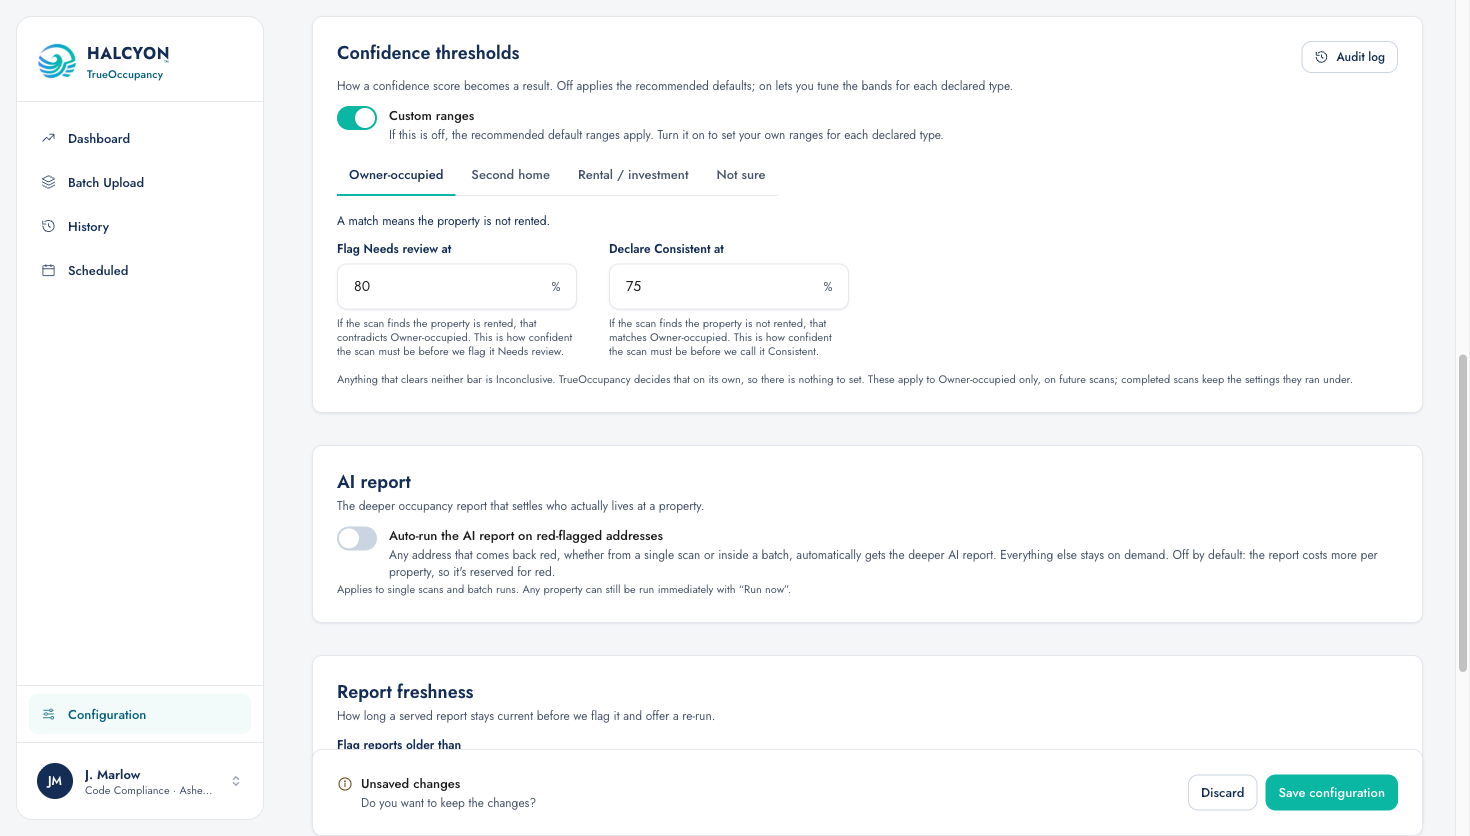
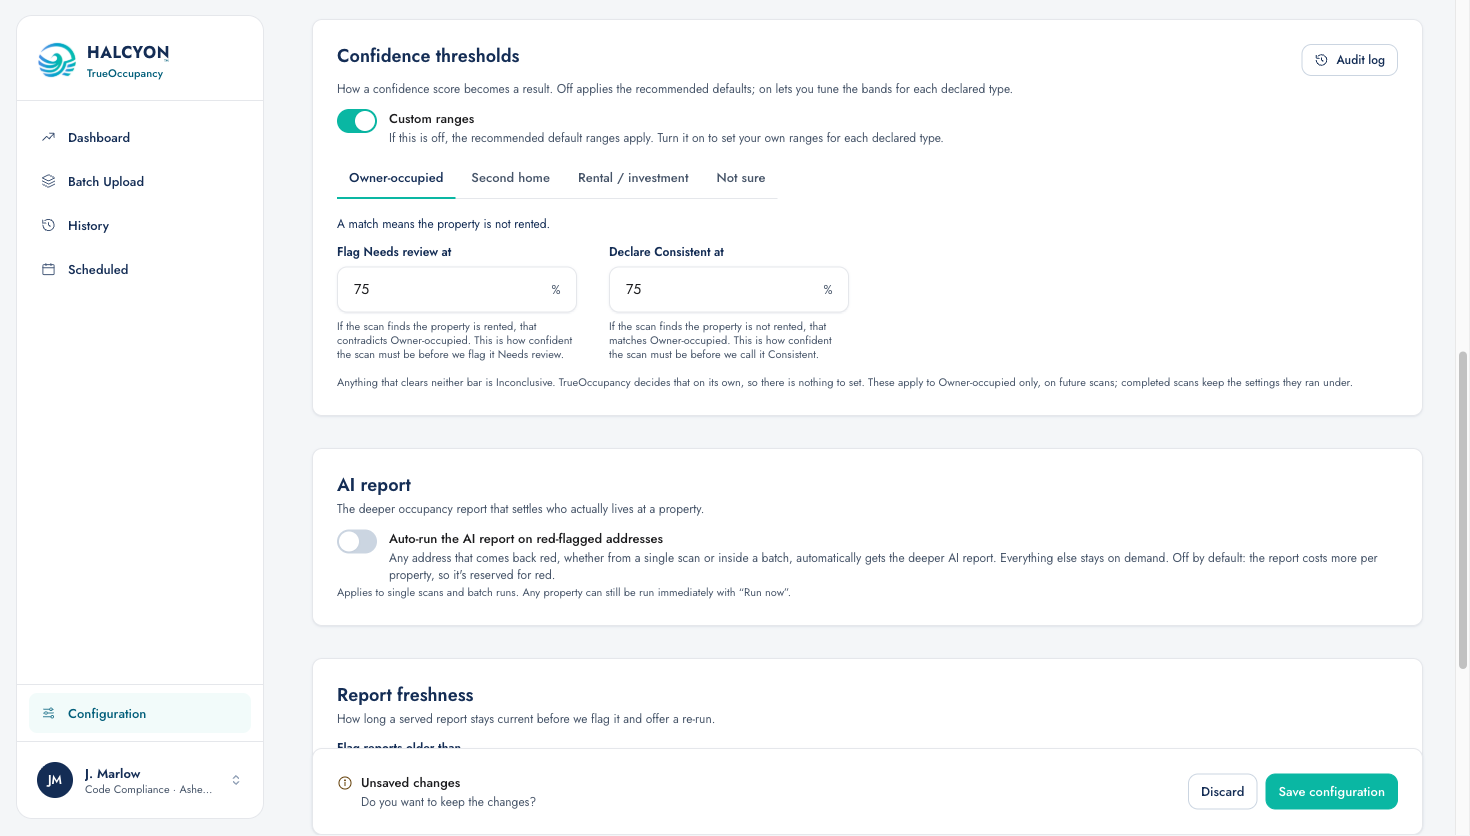
feat(config): default both threshold questions to 75% (Trello #67/#74)
Owner set the recommended default to flag Needs review at 75% and
declare Consistent at 75% for every declared type (was 70/70).

diff --git a/src/pages/ScanConfigScreen.tsx b/src/pages/ScanConfigScreen.tsx
@@ -111,10 +111,11 @@ const MATRIX_HEADER_LABEL: Record<string, string> = {
 /** One declared type's rule: the two declare-confidence minimums. */
 type BandRule = { needsReviewMin: number; consistentMin: number };
 
-// Ratified defaults (#74), restated in declare terms: the old bands NR 0–30 /
-// Consistent 70–100 are exactly "flag Needs review at 70% confidence" and
-// "declare Consistent at 70% confidence". Same numbers, new question.
-const DEFAULT_BAND_RULE: BandRule = { needsReviewMin: 70, consistentMin: 70 };
+// Recommended defaults (#74, owner set 2026-09-01): flag Needs review at 75%
+// confidence and declare Consistent at 75% confidence for every declared
+// type. On the match axis that is Needs review 0–25, Inconclusive 26–74,
+// Consistent 75–100.
+const DEFAULT_BAND_RULE: BandRule = { needsReviewMin: 75, consistentMin: 75 };
 
 // The declare-confidence floor. You cannot declare an outcome on less than
 // majority confidence, and 51 + 51 > 100 means the Needs-review and
